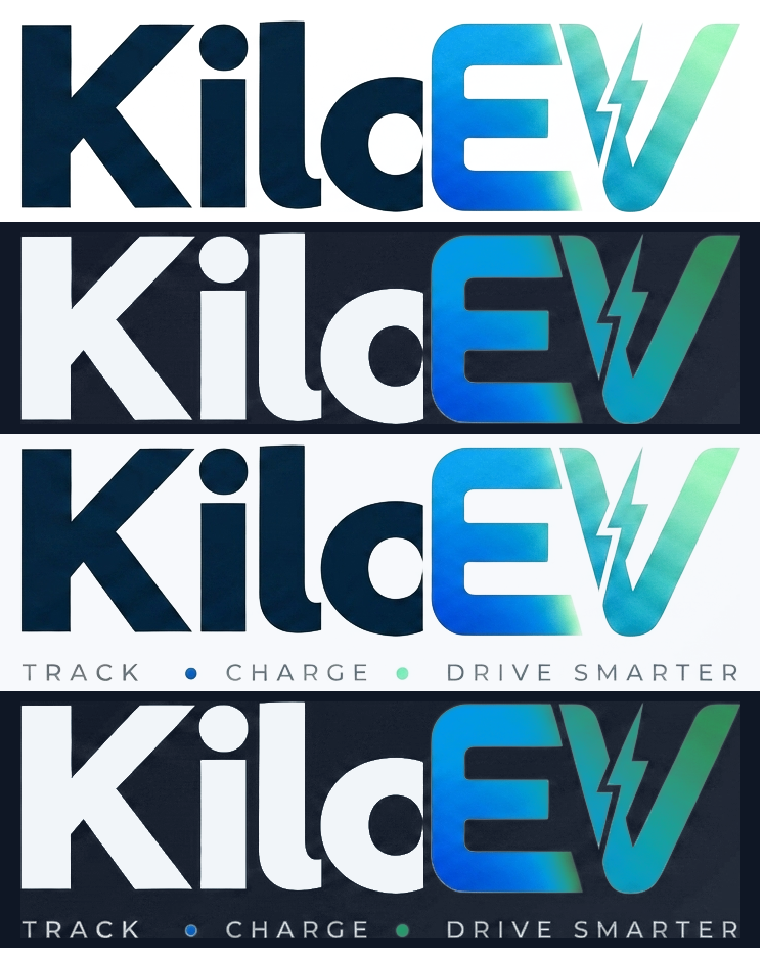
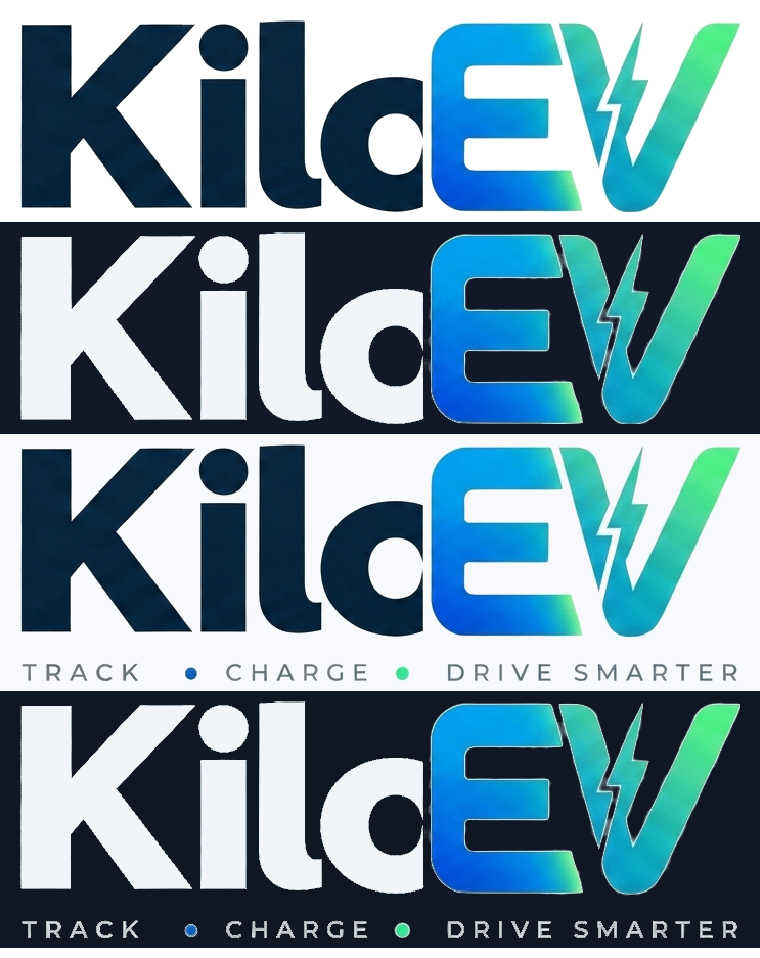
ชื่อแบรนด์ในแถบข้างกลืนกับพื้นหลังแล้ว
รูปชื่อแบรนด์มีแผ่นพื้นจางๆ ติดมา บนพื้นขาวแทบไม่เห็น แต่บนแถบข้างสีเข้ม
เห็นเป็นสี่เหลี่ยมรอบตัวอักษรชัดเจน

สาเหตุ: ลบพื้นหลังโดยวัดจากความสว่าง พื้นหลังต้นฉบับไม่ได้เรียบสนิท มีไล่เฉด
ค่าที่ได้จึงไม่ใช่ 0 แต่เป็น alpha ราว 5-30 เต็มพื้นที่

ลองตัดหางล่างทิ้งแล้วตัว EV หายไปด้วย เพราะเกณฑ์ความสว่างแปลว่าอะไรที่สว่าง
คือพื้นหลัง ส่วนปลายเขียวของ EV สว่างเกือบเท่าพื้น

แก้ที่ต้นเหตุ: วัดจากระยะห่างของสีแทน เขียวสดห่างจากพื้นขาวมากแม้ความสว่างพอกัน
จึงแยกออกได้ถูก

เพิ่ม alphacheck วัดสัดส่วนพิกเซลโปร่งสนิท/ฝ้า/ทึบ ฝ้าต้องต่ำกว่า 3%
เพราะที่ยอมได้คือขอบตัวอักษรเท่านั้น ผลตอนนี้ฝ้า 0.69%
(เกณฑ์แรกที่เขียนคือมุมทั้งสี่ต้องโปร่ง ซึ่งใช้ไม่ได้เพราะภาพครอบชิด
ปลายตัว V ชนมุมพอดี เปลี่ยนมาวัดสัดส่วนทั้งภาพแทน)

เลื่อน VERSION ใน sw.js เป็น v19

diff --git a/doc/make-brand.js b/doc/make-brand.js
@@ -379,12 +379,24 @@ if (require.main === module) {
   const xf = xBoundsOf(wordSheet, boxB, [bandWord, bandTag], wordBg, 70);
 
   /** ทำพื้นให้โปร่งใสตามความสว่าง — ใช้แทน flood fill เพราะตัวอักษรมีช่องปิดข้างใน (o, e) */
-  function keyOutBackground(img, bg) {
-    const bgLum = bg[0] * 0.299 + bg[1] * 0.587 + bg[2] * 0.114;
+  function keyOutBackground(img, bg, near = 30, far = 75) {
     for (let i = 0; i < img.w * img.h; i++) {
       const d = i * 4;
-      const lum = img.data[d] * 0.299 + img.data[d + 1] * 0.587 + img.data[d + 2] * 0.114;
-      img.data[d + 3] = Math.round(255 * Math.min(1, Math.max(0, (bgLum - lum) / (bgLum * 0.55))));
+      const dist = Math.hypot(img.data[d] - bg[0], img.data[d + 1] - bg[1], img.data[d + 2] - bg[2]);
+      /**
+       * วัดจาก "ระยะห่างของสี" จากพื้นหลัง ไม่ใช่ความสว่าง
+       *
+       * เกณฑ์ความสว่างใช้ไม่ได้เพราะมันแปลว่า "อะไรที่สว่างคือพื้นหลัง"
+       * ตัว EV ไล่เฉดฟ้าไปเขียว ปลายเขียวสว่างเกือบเท่าพื้น จึงโดนทำให้โปร่งไปด้วย
+       * ระยะห่างของสีแยกได้ถูก เพราะเขียวสดห่างจากพื้นขาวมากแม้จะสว่างพอกัน
+       *
+       * near = ระยะที่ยังถือว่าเป็นพื้นหลัง เผื่อไว้กลบไล่เฉดจางๆ ในไฟล์ต้นฉบับ
+       *        ถ้าไม่เผื่อ พื้นเปล่าจะเหลือ alpha นิดหน่อยทั่วทั้งภาพ
+       *        วางบนพื้นเข้มแล้วเห็นเป็นแผ่นสี่เหลี่ยมจางๆ ไม่กลืนกับพื้นหลัง
+       * far  = ระยะที่ถือว่าเป็นเนื้อภาพเต็มตัว ระหว่างสองค่านี้คือขอบที่ anti-alias ไว้
+       */
+      const a = (dist - near) / (far - near);
+      img.data[d + 3] = Math.round(255 * Math.min(1, Math.max(0, a)));
     }
     return img;
   }

diff --git a/public/sw.js b/public/sw.js
@@ -14,7 +14,7 @@
 
 // ต้องเลื่อนเวอร์ชันนี้ทุกครั้งที่ไฟล์ใน PRECACHE หรือไอคอนเปลี่ยน
 // เพราะ activate ลบเฉพาะแคชที่ชื่อไม่ตรงกับเวอร์ชันปัจจุบัน ชื่อเดิม = แคชเก่ารอด
-const VERSION = 'v18';
+const VERSION = 'v19';
 // ชื่อแคชยังขึ้นต้นด้วย evlog- ตามเดิม แม้แอปจะเปลี่ยนชื่อแล้ว
 // ถ้าเปลี่ยน ตัว activate จะลบแคชเก่าไม่เจอ เพราะมันกรองจาก prefix นี้
 const STATIC_CACHE = `evlog-static-${VERSION}`;
